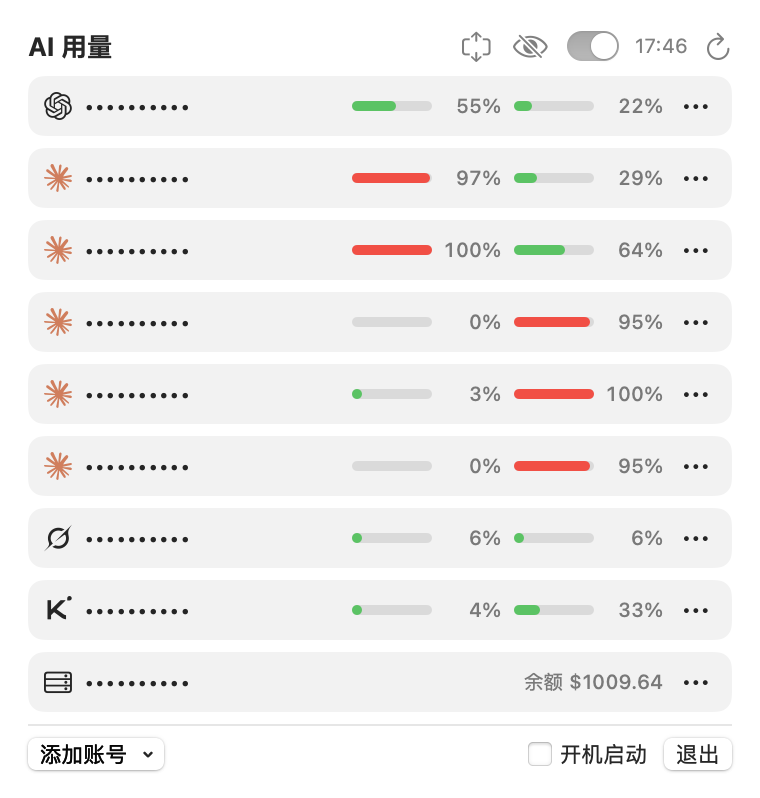
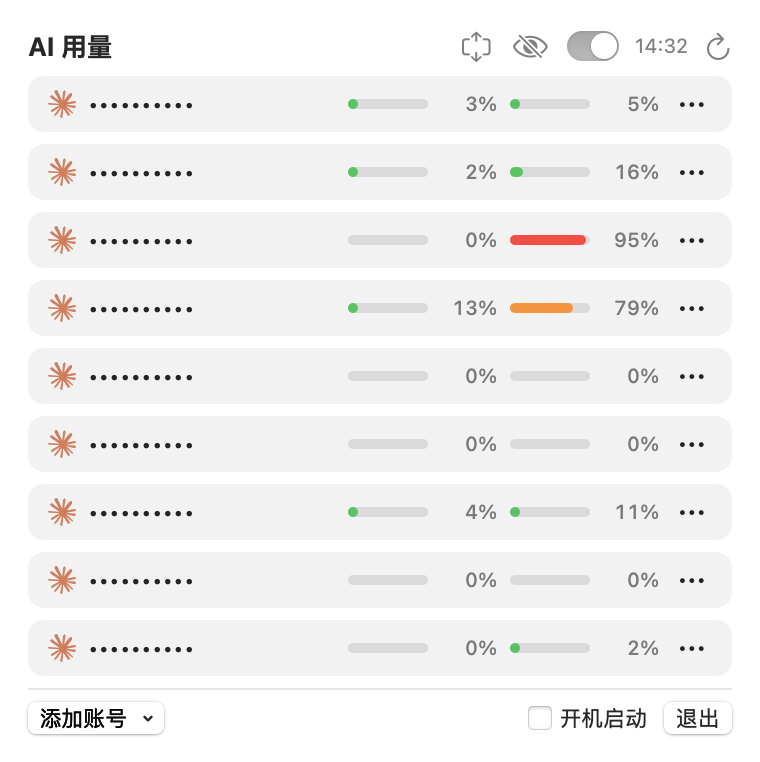
feat: tighter account cards so nine fit without scrolling (#3)
* chore: PR evidence screenshots

* chore: drop PR evidence

diff --git a/Sources/ClaudeUsageBar/App.swift b/Sources/ClaudeUsageBar/App.swift
@@ -142,7 +142,7 @@ struct UsagePanel: View {
                     .font(.callout).foregroundStyle(.secondary)
             }
             ScrollView {
-                VStack(spacing: compact ? 6 : 10) {
+                VStack(spacing: 6) {
                     ForEach(store.accounts) { account in
                         AccountCard(account: account, status: store.status[account.id], store: store,
                                     hideName: hideNames, compact: compact)
@@ -206,7 +206,7 @@ struct AccountCard: View {
     private var collapsed: Bool { compact && !expanded }
 
     var body: some View {
-        VStack(alignment: .leading, spacing: 6) {
+        VStack(alignment: .leading, spacing: 3) {
             HStack(spacing: 6) {
                 title
                 Spacer(minLength: 4)
@@ -220,7 +220,8 @@ struct AccountCard: View {
             }
             if !collapsed { details }
         }
-        .padding(compact ? 8 : 10)
+        .padding(.horizontal, 10)
+        .padding(.vertical, 7)
         .background(.quaternary.opacity(0.5), in: RoundedRectangle(cornerRadius: 8))
         .overlay {
             RoundedRectangle(cornerRadius: 8)
